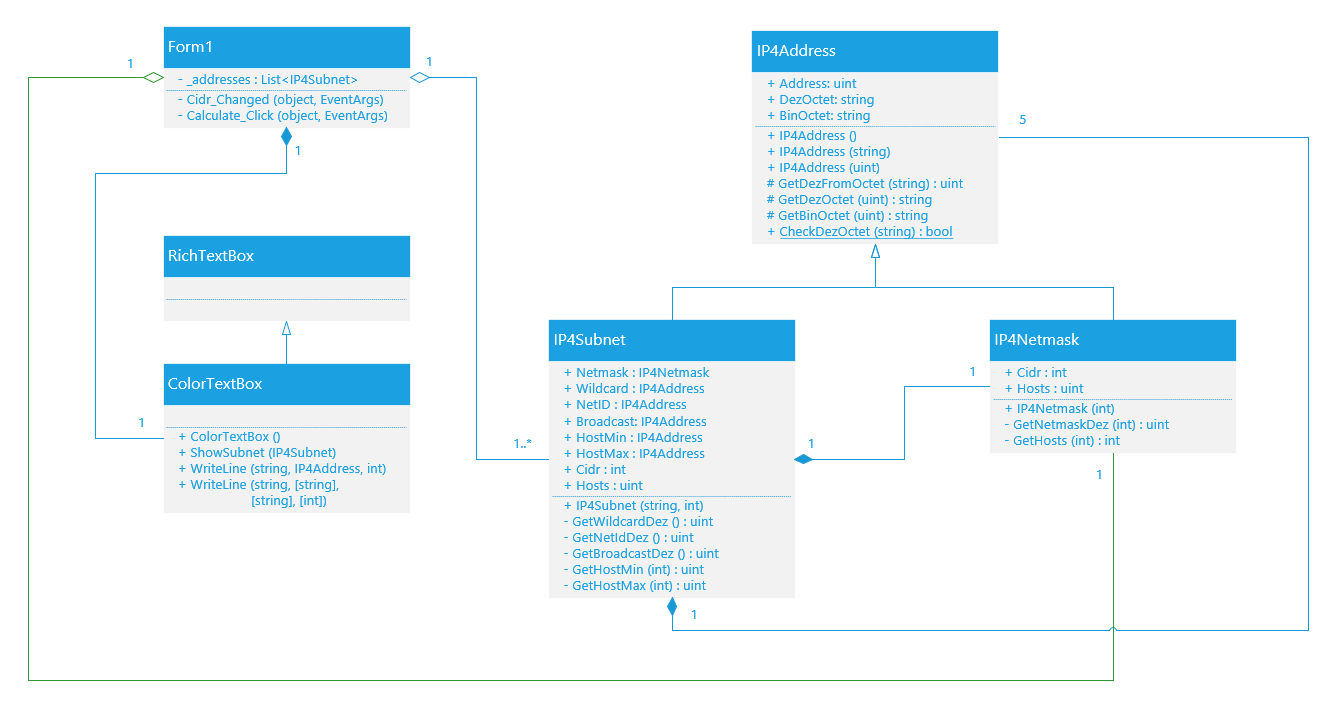
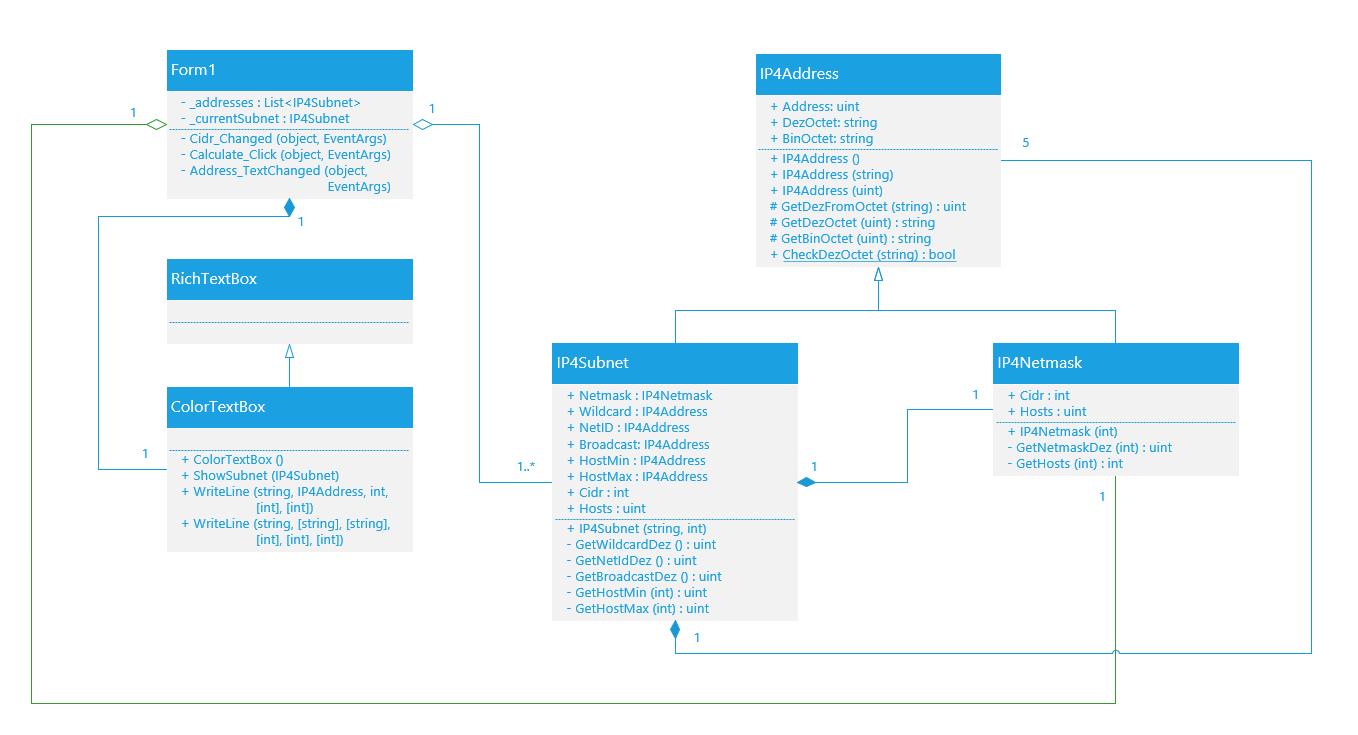
Dynamic Subnet + Address UI update, Mark invaild Subnet/CIDR configurations

diff --git a/WinFormsNetworkCalculator/ColorTextBox.cs b/WinFormsNetworkCalculator/ColorTextBox.cs
@@ -19,30 +19,48 @@ namespace WinFormsNetworkCalculator
             int hostBits = 32 - cidr;
             int hostLength = hostBits + ((hostBits - 1) / 8);
 
+            // mark invalid subnet configuration in red
+            int hostsColor = 0;
+            int broadNetColor = 0;
+            if (cidr >= 31)
+            {
+                hostsColor = 2;
+                if (cidr == 32)
+                {
+                    broadNetColor = 2;
+                }
+            }
+
             // fill richTextBox
             WriteLine("", "", "Network prefix              Host ID", 8);
-            WriteLine("IP Address:", subnet, hostLength);            // -> IP4Subnet  derives from IP4Address, so it can be used here as IP4Address type
-            WriteLine("Netmask:", subnet.Netmask, hostLength);       // -> IP4Netmask derives from IP4Address, so it can be used here as IP4Address type
-            WriteLine("Wildcard:", subnet.Wildcard, hostLength);
-            WriteLine("NetAddress:", subnet.NetId, hostLength);
-            WriteLine("Host min:", subnet.HostMin, hostLength);
-            WriteLine("Host max:", subnet.HostMax, hostLength);
-            WriteLine("Broadcast:", subnet.Broadcast, hostLength);
-            WriteLine("Hosts:", subnet.Hosts.ToString("N0"));
+            WriteLine("IP Address:", subnet,           hostLength);             // -> IP4Subnet  derives from IP4Address, so it can be used here as IP4Address type
+            WriteLine("Netmask:",    subnet.Netmask,   hostLength, 1, 1);       // -> IP4Netmask derives from IP4Address, so it can be used here as IP4Address type
+            WriteLine("Wildcard:",   subnet.Wildcard,  hostLength, 2, 2);
+            WriteLine("NetAddress:", subnet.NetId,     hostLength, 0, broadNetColor);
+            WriteLine("Host min:",   subnet.HostMin,   hostLength, 0, hostsColor);
+            WriteLine("Host max:",   subnet.HostMax,   hostLength, 0, hostsColor);
+            WriteLine("Broadcast:",  subnet.Broadcast, hostLength, 0, broadNetColor);
+            WriteLine("Hosts:", subnet.Hosts.ToString("N0"), "", 0, hostsColor, hostsColor);
         }
 
-        public void WriteLine(string description, string dezOctet = "", string binOctet = "", int hostLength = 0)
+        //public void WriteLine(string description, string dezOctet = "", string binOctet = "", int hostLength = 0)
+        public void WriteLine(
+                string description, 
+                string dezOctet = "", 
+                string binOctet = "", 
+                int hostLength = 0,
+                int column1Color = 0,
+                int column2Color = 0)
         {
+
+            Color[] colors = { Color.Black, Color.DarkBlue, Color.DarkRed };
+            
             // description / 1. column
-            SelectionColor = Color.Black;
-            // colorize netmask + wildcard
-            if (description == "Netmask:")
-                SelectionColor = Color.DarkBlue;
-            if (description == "Wildcard:")
-                SelectionColor = Color.DarkRed;
+            SelectionColor = colors[column1Color];
             AppendText($"\n   {description,11}");
 
             // decimal octet / 2. column
+            SelectionColor = colors[column2Color];
             AppendText($"   {dezOctet,-15}");
 
             // binary octet / 3. column
@@ -57,9 +75,20 @@ namespace WinFormsNetworkCalculator
                 Select(TextLength, 0);    // reset selection / position at end
             }
         }
-        public void WriteLine(string description, IP4Address address, int hostLength)
+        public void WriteLine(
+                string description, 
+                IP4Address address, 
+                int hostLength,
+                int column1Color = 0,
+                int column2Color = 0)
         {
-            WriteLine(description, address.DezOctet, address.BinOctet, hostLength);
+            WriteLine(
+                    description, 
+                    address.DezOctet, 
+                    address.BinOctet, 
+                    hostLength,
+                    column1Color,
+                    column2Color);
         }
     }
 }

diff --git a/WinFormsNetworkCalculator/Form1.Designer.cs b/WinFormsNetworkCalculator/Form1.Designer.cs
@@ -29,6 +29,7 @@
         private void InitializeComponent()
         {
             panel1 = new Panel();
+            tbResults = new ColorTextBox();
             numericUpDownCidr = new NumericUpDown();
             textBoxSubnetmaskBin = new TextBox();
             label3 = new Label();
@@ -37,7 +38,6 @@
             label1 = new Label();
             buttonCalculateNetwork = new Button();
             textBoxAddress = new TextBox();
-            tbResults = new ColorTextBox();
             panel1.SuspendLayout();
             ((System.ComponentModel.ISupportInitialize)numericUpDownCidr).BeginInit();
             SuspendLayout();
@@ -59,6 +59,18 @@
             panel1.Name = "panel1";
             panel1.Size = new Size(515, 300);
             panel1.TabIndex = 0;
+            // 
+            // tbResults
+            // 
+            tbResults.BackColor = SystemColors.Window;
+            tbResults.Dock = DockStyle.Bottom;
+            tbResults.Font = new Font("Consolas", 9F);
+            tbResults.Location = new Point(0, 141);
+            tbResults.Name = "tbResults";
+            tbResults.ReadOnly = true;
+            tbResults.Size = new Size(515, 159);
+            tbResults.TabIndex = 10;
+            tbResults.Text = "";
             // 
             // numericUpDownCidr
             // 
@@ -136,18 +148,7 @@
             textBoxAddress.Size = new Size(118, 22);
             textBoxAddress.TabIndex = 1;
             textBoxAddress.Text = "192.168.87.85";
-            // 
-            // tbResults
-            // 
-            tbResults.BackColor = SystemColors.Window;
-            tbResults.Dock = DockStyle.Bottom;
-            tbResults.Font = new Font("Consolas", 9F);
-            tbResults.Location = new Point(0, 141);
-            tbResults.Name = "tbResults";
-            tbResults.ReadOnly = true;
-            tbResults.Size = new Size(515, 159);
-            tbResults.TabIndex = 10;
-            tbResults.Text = "";
+            textBoxAddress.TextChanged += textBoxAddress_TextChanged;
             // 
             // Form1
             // 
@@ -155,6 +156,8 @@
             AutoScaleMode = AutoScaleMode.Font;
             ClientSize = new Size(515, 300);
             Controls.Add(panel1);
+            FormBorderStyle = FormBorderStyle.FixedSingle;
+            MaximizeBox = false;
             Name = "Form1";
             Text = "WinFormsNetworkCalculator";
             panel1.ResumeLayout(false);
